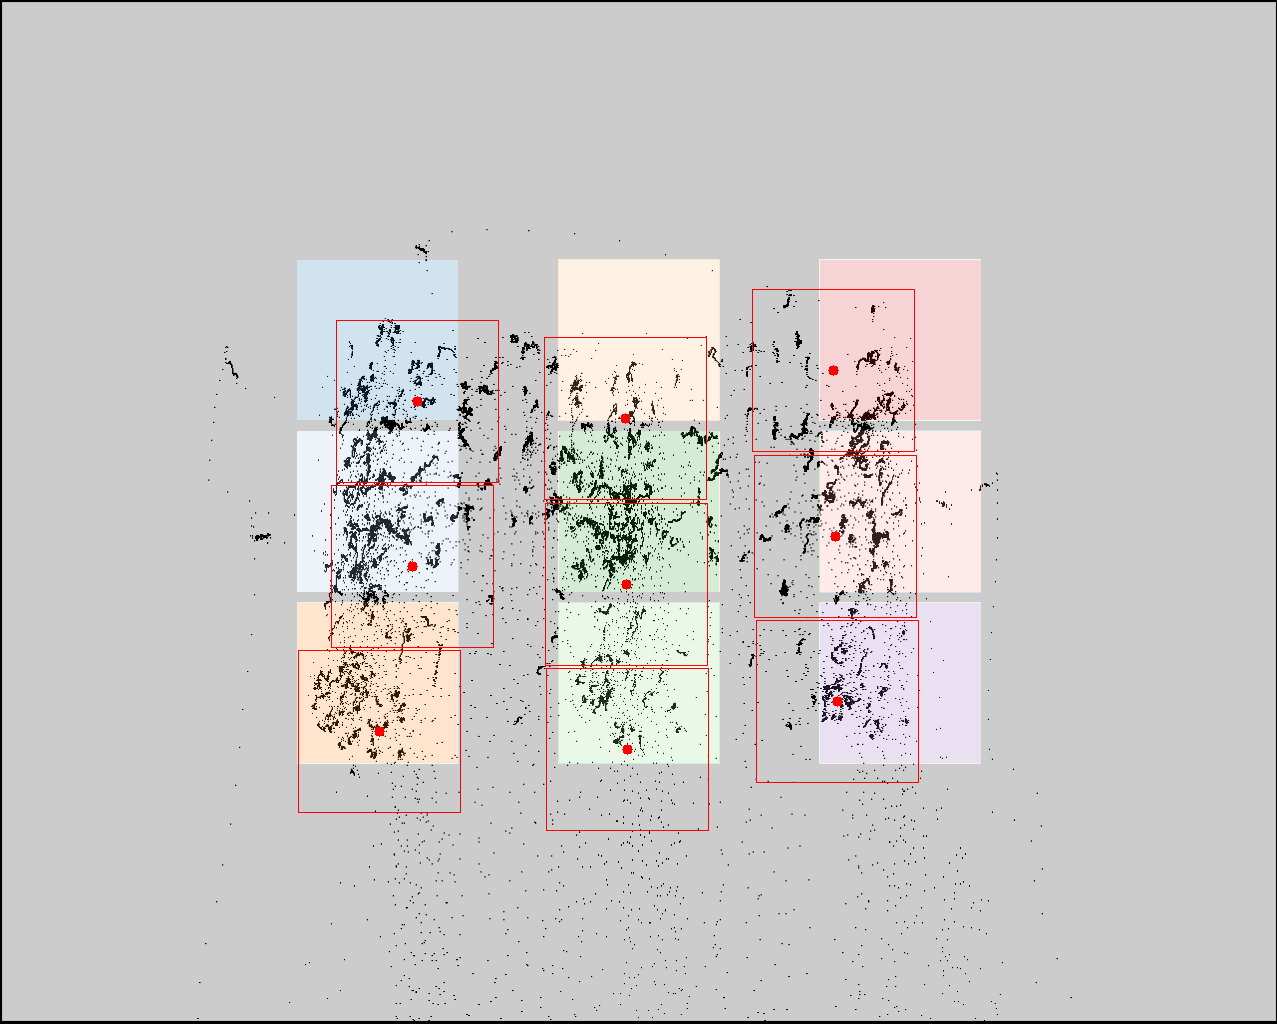
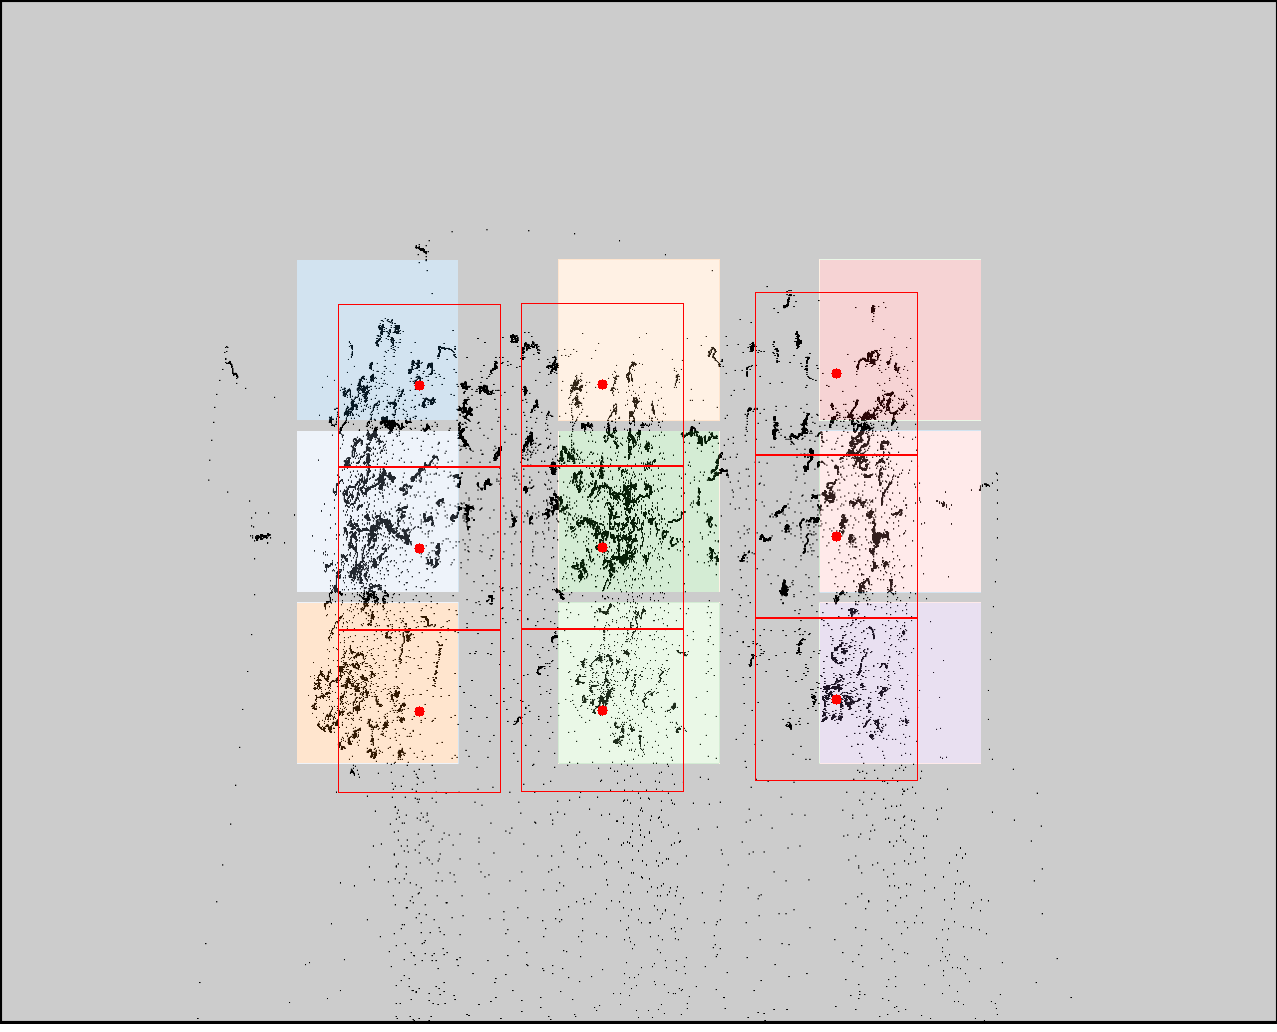
change spacing

Changed region(s): [[0.3054, 0.5271, 0.3359, 0.5581], [0.3054, 0.3721, 0.3359, 0.4031]]

diff --git a/labelcenters/labelcenters.py b/labelcenters/labelcenters.py
@@ -10,7 +10,7 @@ global aoisidelength
 global aoispacelength
 
 aoisidelength = 162
-aoispacelength = 10       
+aoispacelength = 1       
 
 global corb
 
